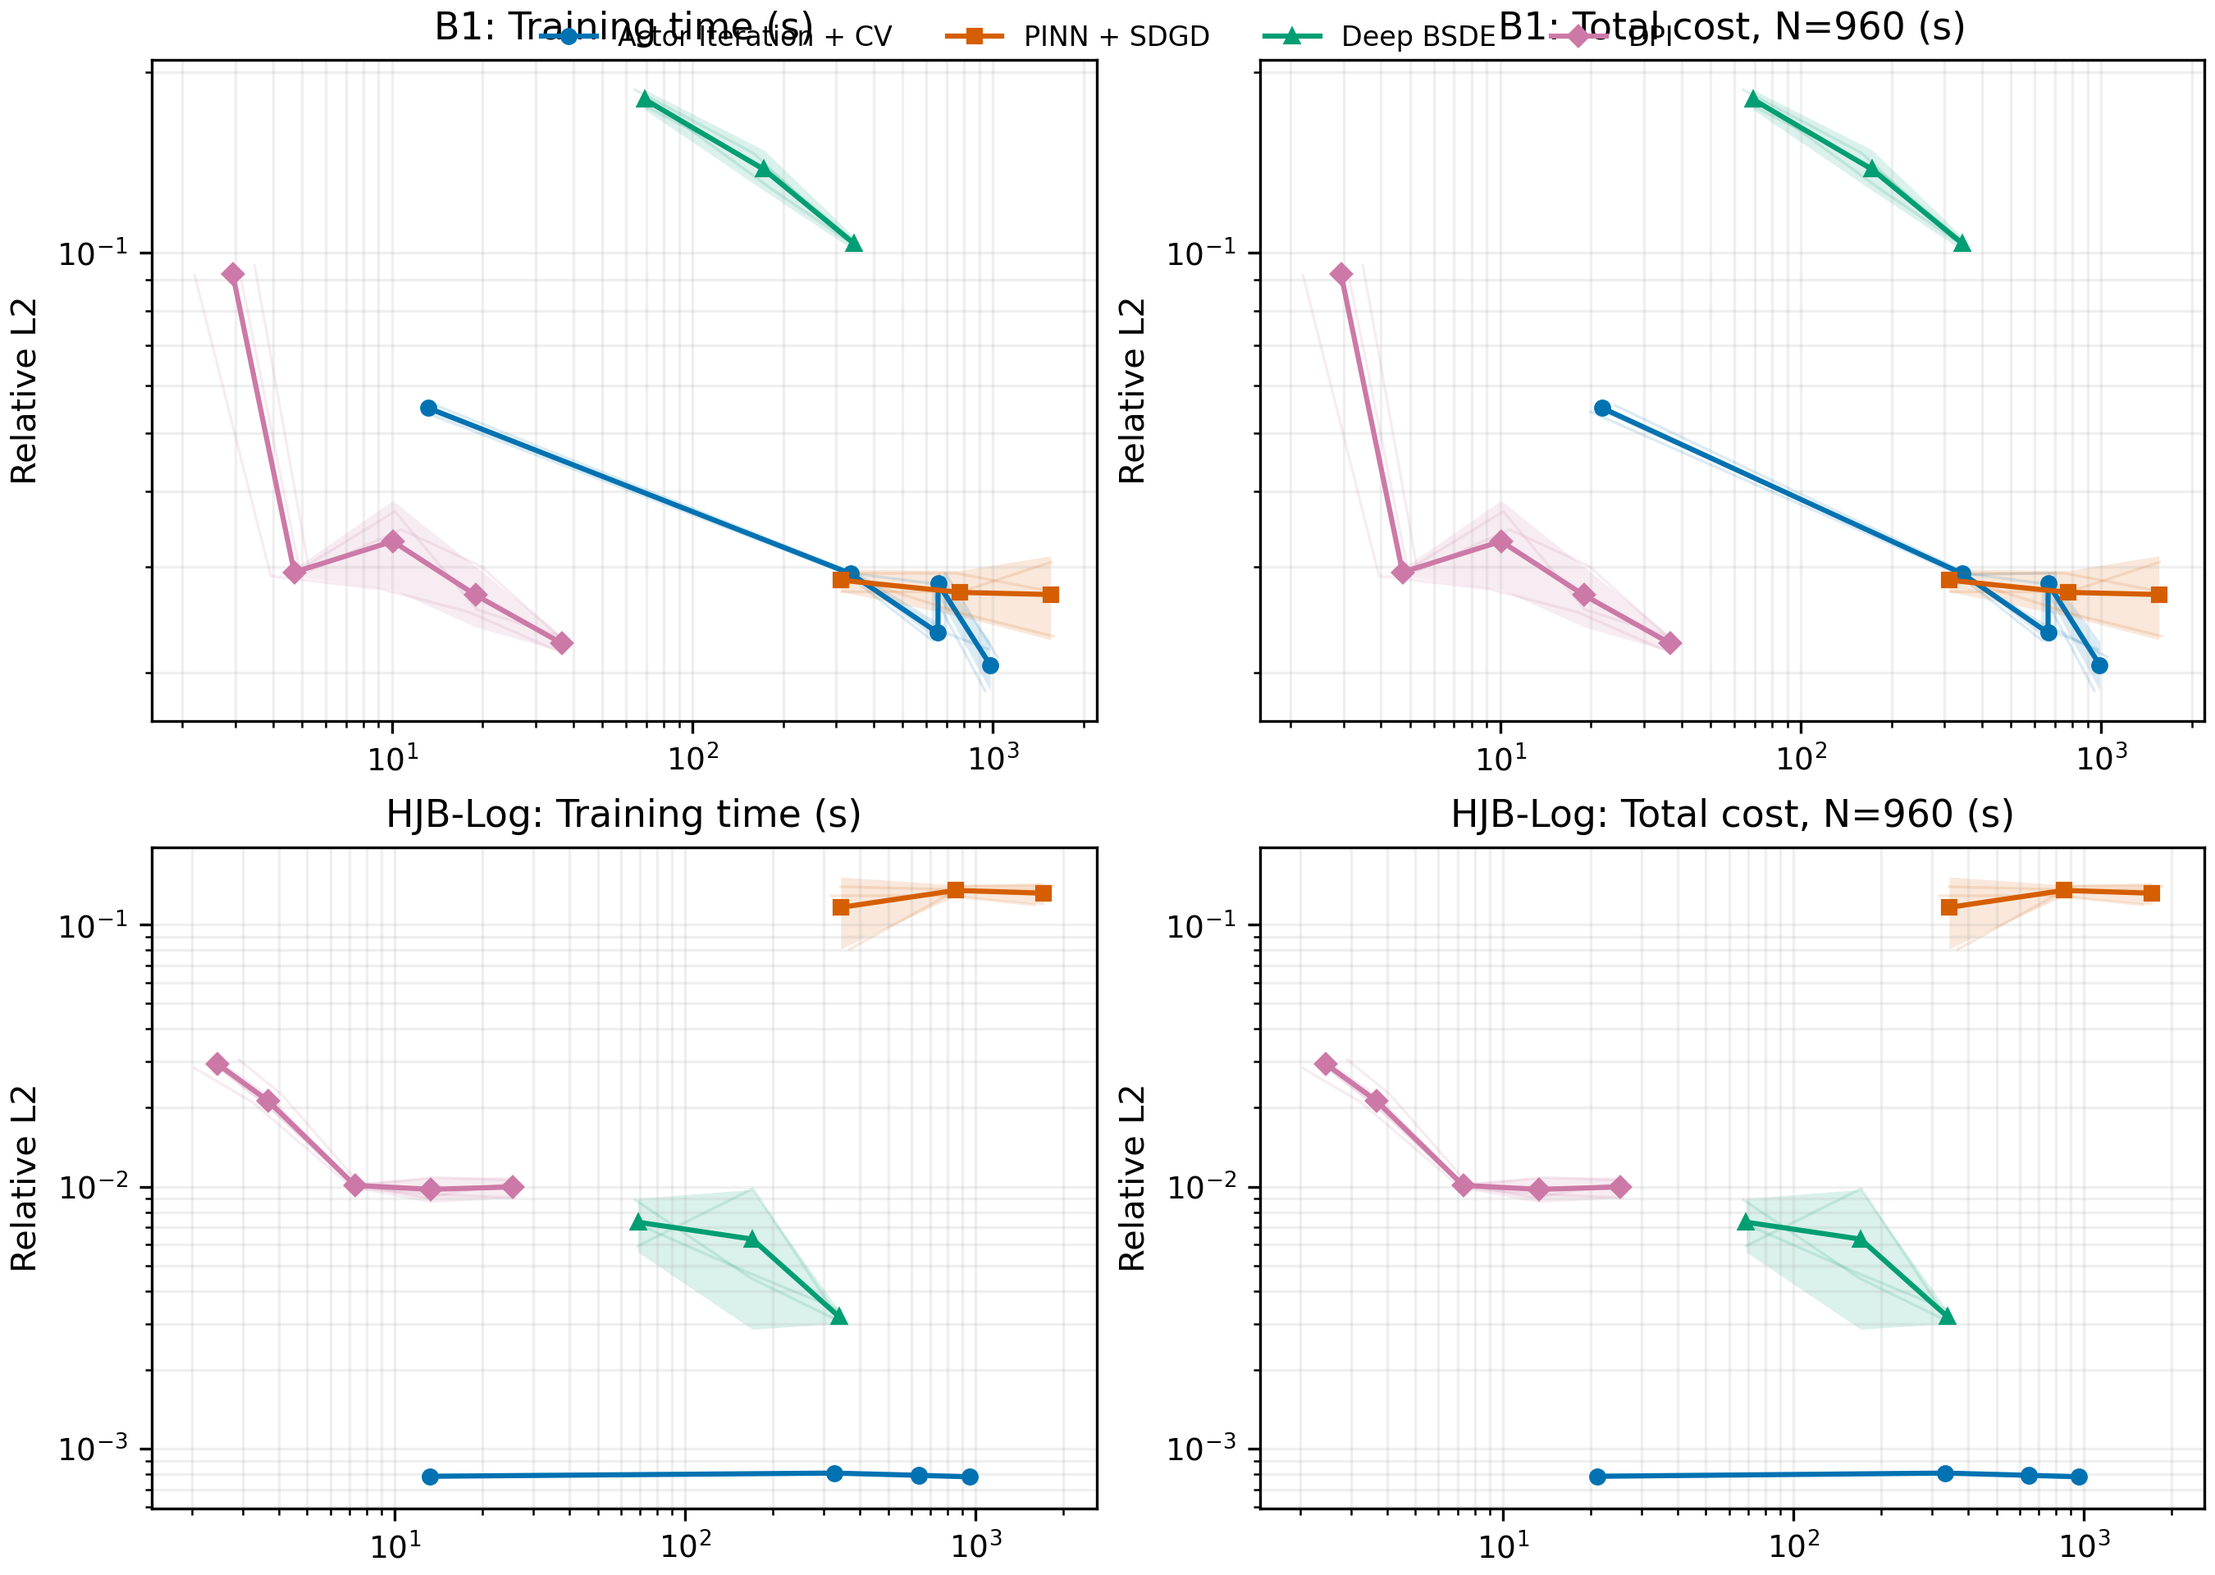
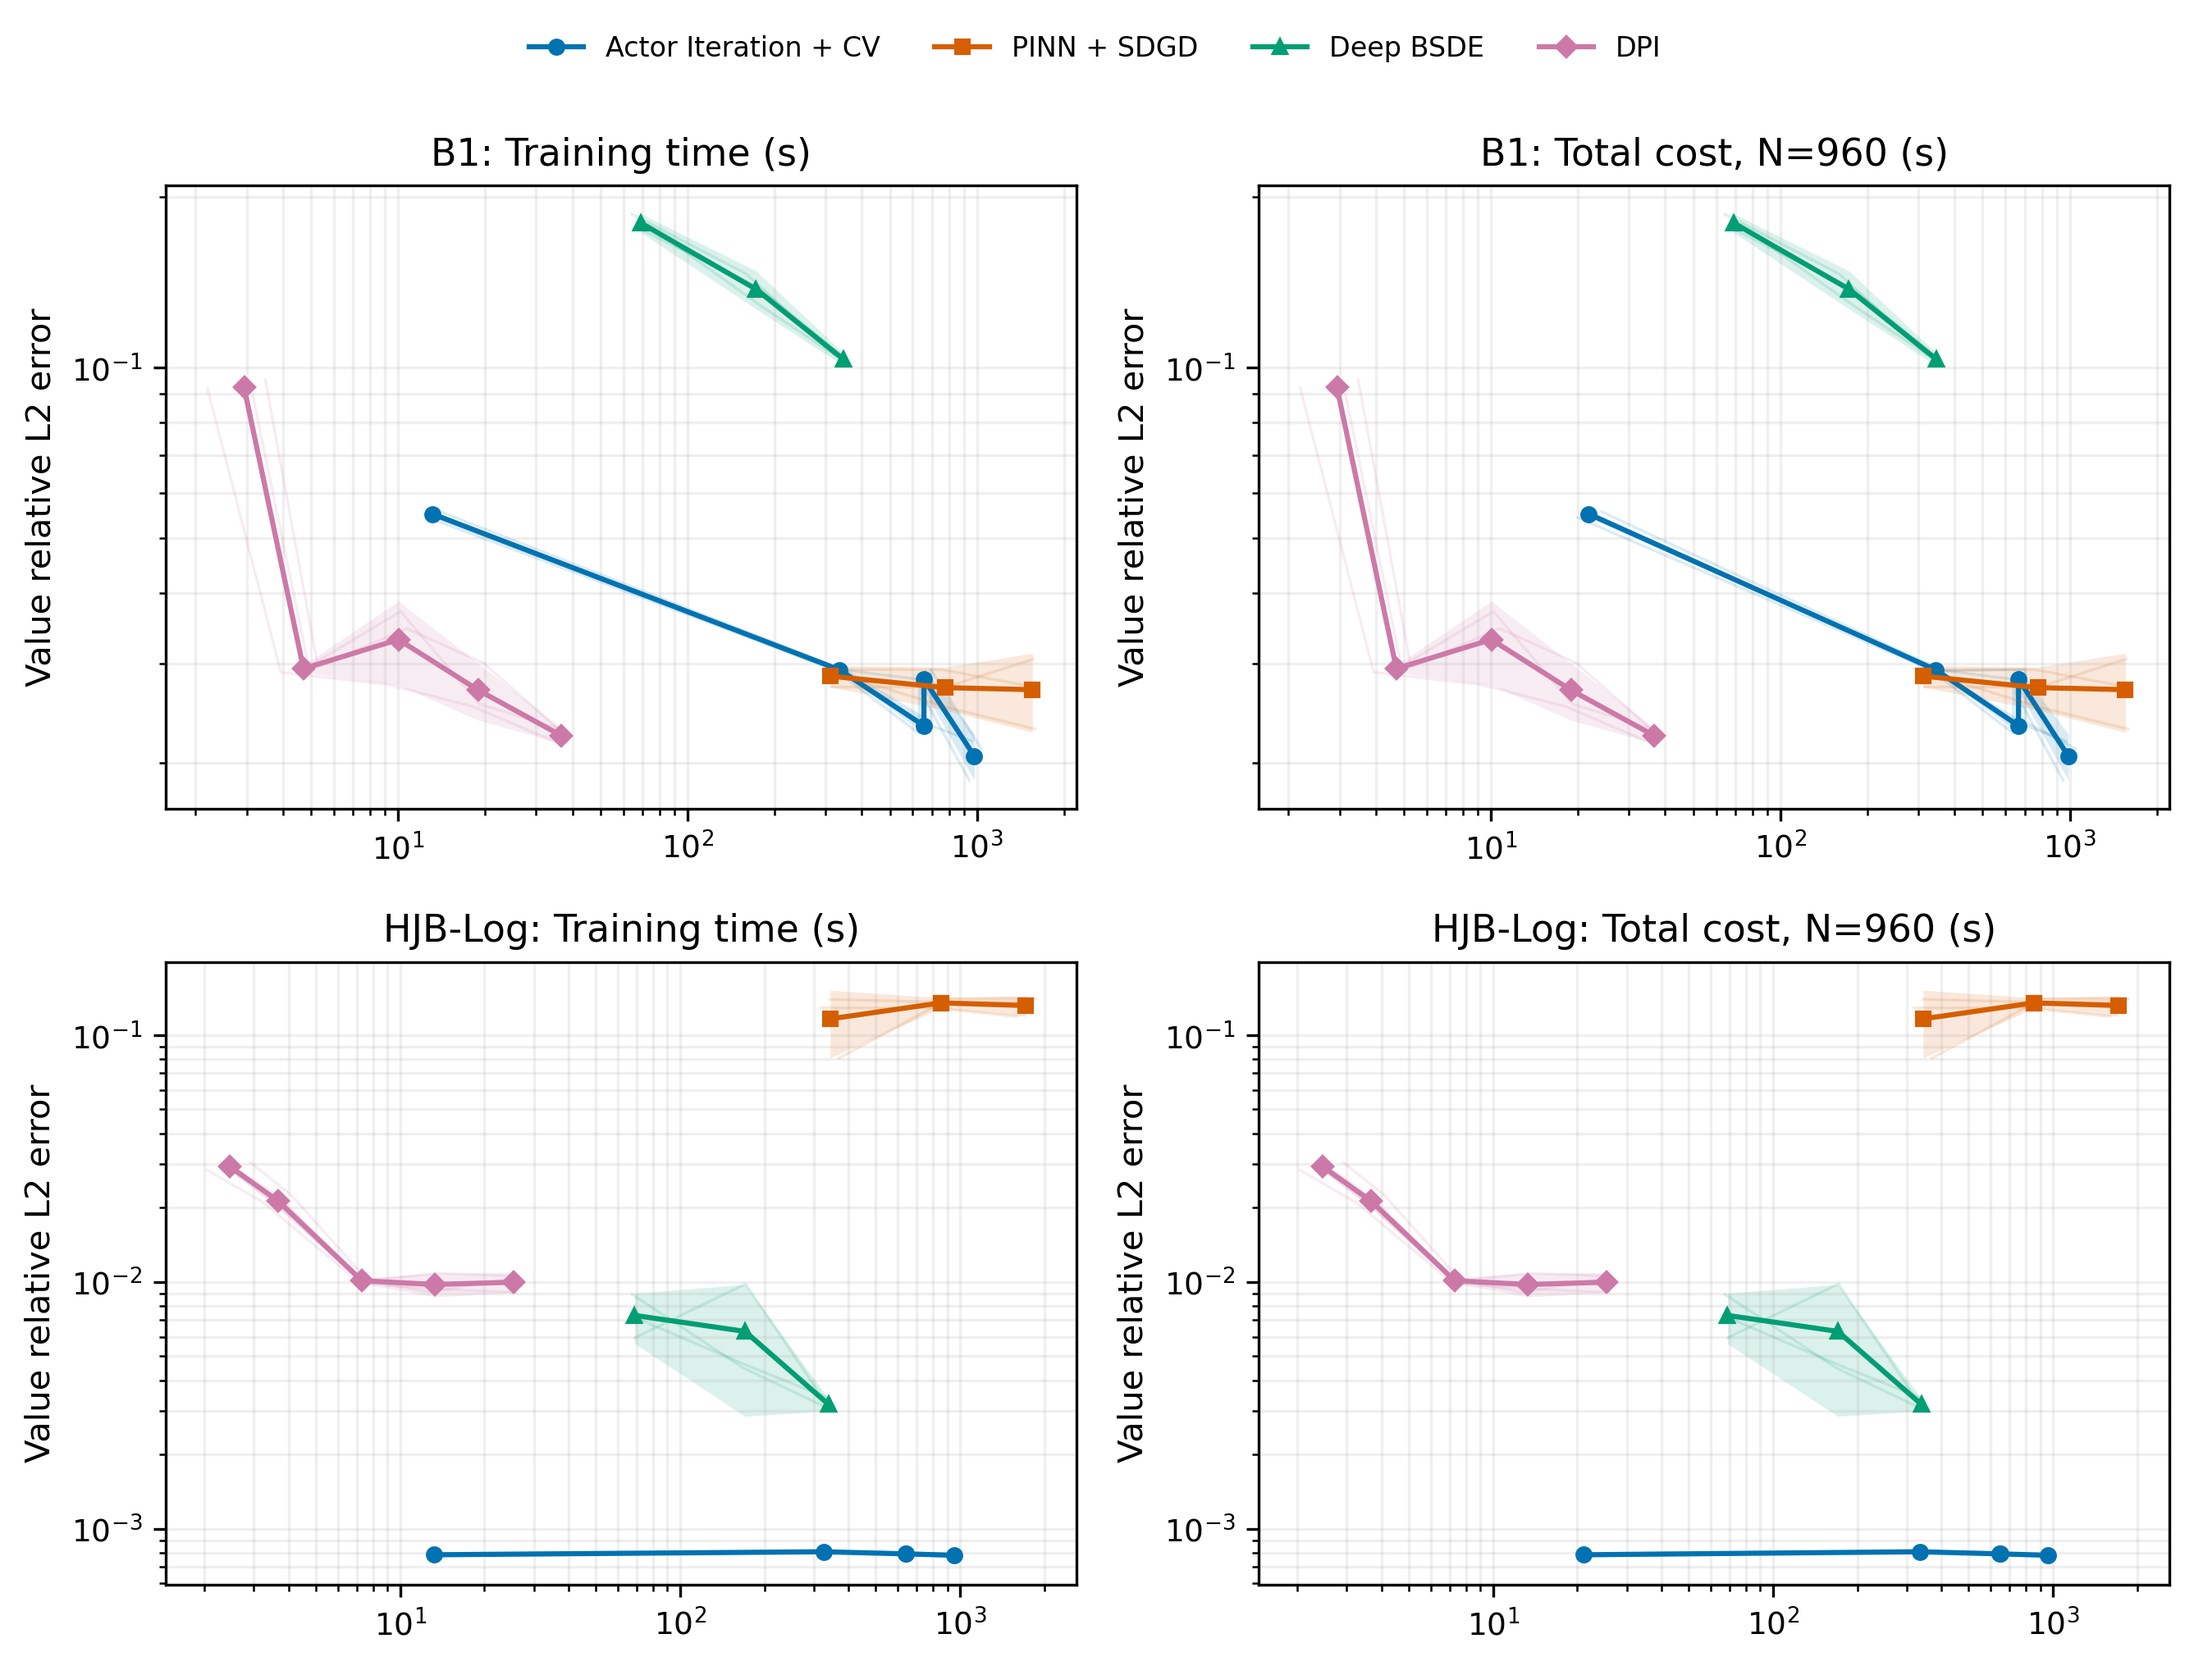
Fix combined frontier figure layout

diff --git a/invariant_region_mlp/experiments/hjb_compute_frontier/aggregate.py b/invariant_region_mlp/experiments/hjb_compute_frontier/aggregate.py
@@ -353,7 +353,7 @@ def make_plots(frontier: list[dict[str, Any]], profile: str | None) -> None:
             fig.savefig(FIGURE_DIR / f"{stem}.pdf")
             plt.close(fig)
 
-    fig, axes = plt.subplots(2, 2, figsize=(9.0, 6.4), constrained_layout=True)
+    fig, axes = plt.subplots(2, 2, figsize=(9.0, 6.8))
     for row_index, (equation, title) in enumerate((("b1_d400_k40", "B1"), ("hjb_log_d400", "HJB-Log"))):
         for col_index, (cost_key, label) in enumerate((("training_seconds", "Training time (s)"), ("total_seconds_960", "Total cost, N=960 (s)"))):
             ax = axes[row_index, col_index]
@@ -367,13 +367,21 @@ def make_plots(frontier: list[dict[str, Any]], profile: str | None) -> None:
             ax.set_xscale("log")
             ax.set_yscale("log")
             ax.set_title(f"{title}: {label}")
-            ax.set_ylabel("Relative L2")
+            ax.set_ylabel("Value relative L2 error")
             ax.grid(True, which="both", alpha=0.2)
     handles, labels = axes[0, 0].get_legend_handles_labels()
     if handles:
-        fig.legend(handles, labels, loc="upper center", ncol=4, frameon=False)
-    fig.savefig(FIGURE_DIR / "hjb_compute_frontier_2x2.png")
-    fig.savefig(FIGURE_DIR / "hjb_compute_frontier_2x2.pdf")
+        fig.legend(
+            handles,
+            labels,
+            loc="upper center",
+            bbox_to_anchor=(0.5, 0.995),
+            ncol=4,
+            frameon=False,
+        )
+    fig.tight_layout(rect=(0.0, 0.0, 1.0, 0.94), h_pad=1.5, w_pad=1.2)
+    fig.savefig(FIGURE_DIR / "hjb_compute_frontier_2x2.png", bbox_inches="tight")
+    fig.savefig(FIGURE_DIR / "hjb_compute_frontier_2x2.pdf", bbox_inches="tight")
     plt.close(fig)
 
 
